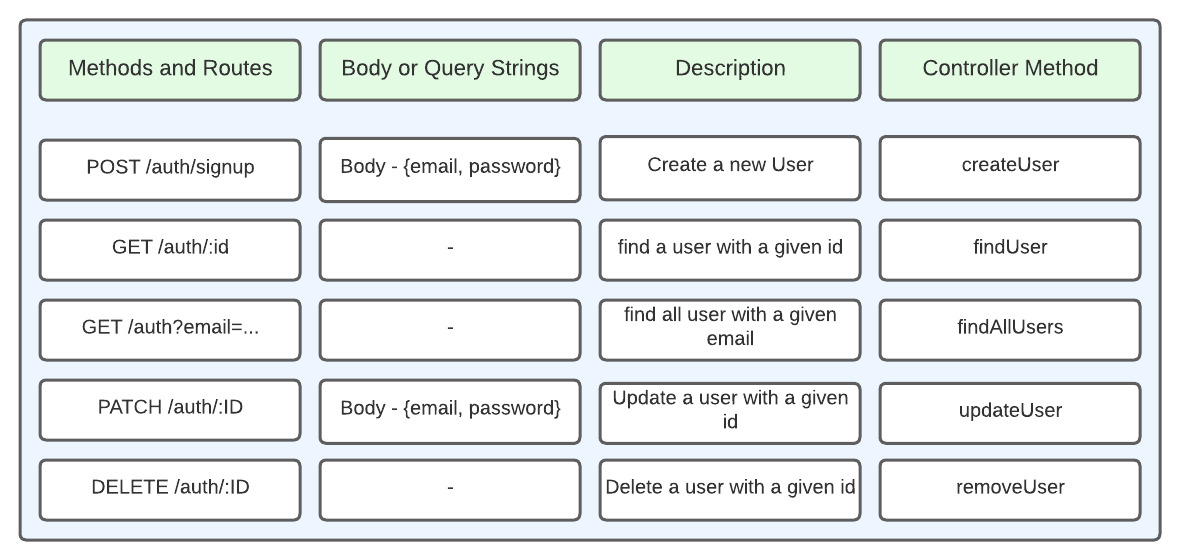
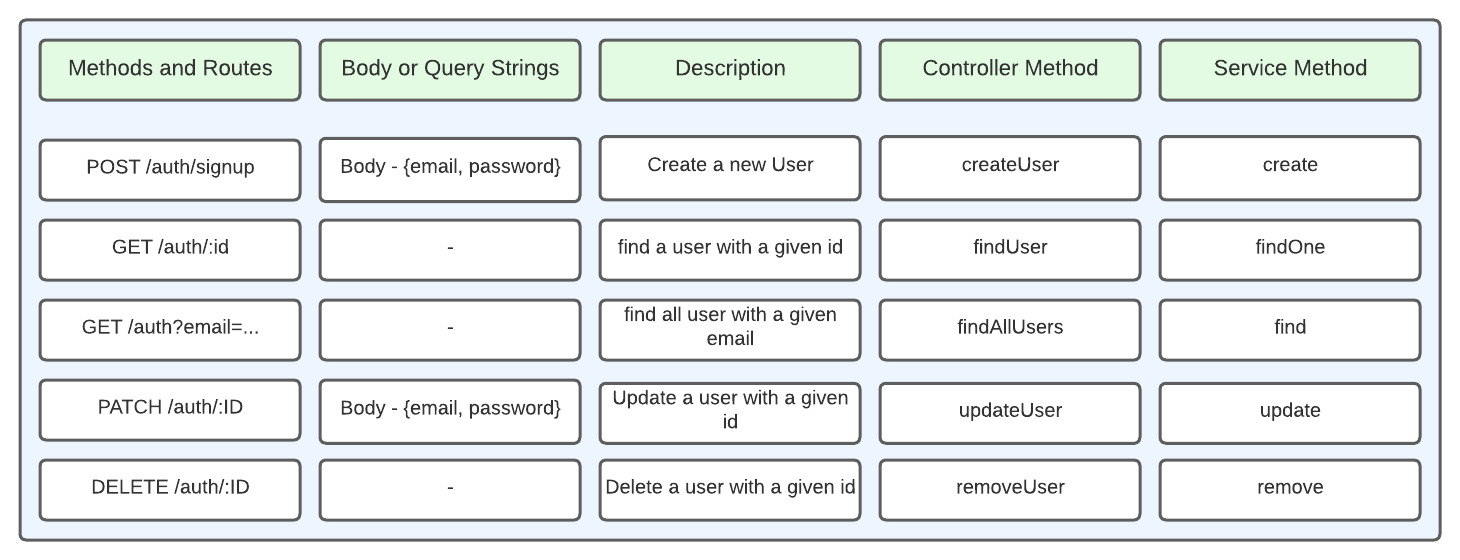
routes of user module

Changed region(s): [[0.0, 0.0304, 0.9153, 0.9714], [0.5797, 0.0304, 1.0, 0.9714], [0.8237, 0.425, 0.9153, 0.4554]]

diff --git a/src/users/users.controller.ts b/src/users/users.controller.ts
@@ -1,4 +1,13 @@
-import { Controller, Post, Body } from '@nestjs/common';
+import {
+  Controller,
+  Post,
+  Body,
+  Get,
+  Delete,
+  Patch,
+  Param,
+  Query,
+} from '@nestjs/common';
 import { CreateUserDto } from './dtos/create-user.dto';
 import { UsersService } from './users.service';
 
@@ -9,5 +18,20 @@ export class UsersController {
   @Post('/signup')
   createUser(@Body() body: CreateUserDto) {
     this.usersService.create(body.email, body.password);
+  }
+
+  @Get('/:id')
+  findUser(@Param('id') id: string) {
+    return this.usersService.findOne(parseInt(id, 10));
+  }
+
+  @Get()
+  findAllUsers(@Query('email') email: string) {
+    return this.usersService.find(email);
+  }
+
+  @Delete('/:id')
+  removeUser(@Param('id') id: string) {
+    return this.usersService.remove(parseInt(id, 10));
   }
 }

diff --git a/src/users/users.service.ts b/src/users/users.service.ts
@@ -12,6 +12,35 @@ export class UsersService {
 
     return this.repo.save(user);
   }
+
+  findOne(id: number) {
+    return this.repo.findOne({ where: { id } });
+  }
+
+  find(email: string) {
+    return this.repo.find({ where: { email } });
+  }
+
+  async update(id: number, attrs: Partial<User>) {
+    const user = await this.findOne(id);
+
+    if (!user) {
+      throw new Error('User not found');
+    }
+
+    Object.assign(user, attrs);
+    return this.repo.save(user);
+  }
+
+  async remove(id: number) {
+    const user = await this.findOne(id);
+
+    if (!user) {
+      throw new Error('User not found');
+    }
+
+    return this.repo.remove(user);
+  }
 }
 
 /*

diff --git a/src/users/user.entity.ts b/src/users/user.entity.ts
@@ -1,4 +1,11 @@
-import { Entity, Column, PrimaryGeneratedColumn } from 'typeorm';
+import {
+  Entity,
+  Column,
+  PrimaryGeneratedColumn,
+  AfterInsert,
+  AfterRemove,
+  AfterUpdate,
+} from 'typeorm';
 
 @Entity()
 export class User {
@@ -10,4 +17,19 @@ export class User {
 
   @Column()
   password: string;
+
+  @AfterInsert()
+  logInsert() {
+    console.log('User inserted with id: ', this.id);
+  }
+
+  @AfterUpdate()
+  logUpdate() {
+    console.log('User updated with id: ', this.id);
+  }
+
+  @AfterRemove()
+  logRemove() {
+    console.log('User removed with id: ', this.id);
+  }
 }

diff --git a/README.md b/README.md
@@ -5,6 +5,10 @@
 
 Because this is an exercise, the app uses sqllite and the Typeorm sinchronize is set true for development porpouse.
 Many of the routes does not make sense in a real app, but those are there for practicing with Typeorm.
+The hooks that are also inside the user entity are for helping visualize the process.
+We also use the methods from the [Repository API](https://typeorm.io/repository-api).
+
+
 
 ## Structure of the app
 
